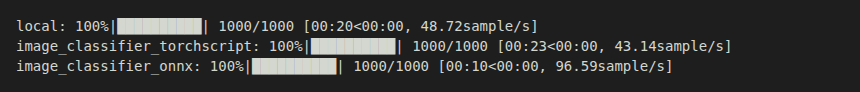
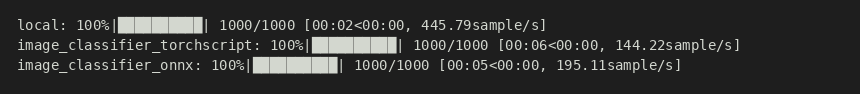
[DOCS] Capture README/run_inference_output.png again on the idle GPU with the default run of run_inference.py, the 35-class README classifier exported with TensorRT FP32 by export_model.py: 445.79 samples per second in the process, 144.22 through Triton as TorchScript and 195.11 as ONNX with TensorR
Claude-Session: https://claude.ai/code/session_016uCt2VnUHiMVPwv8A7SxdZ

diff --git a/documentation/architecture_benchmarking/serving_benchmark_plan.md b/documentation/architecture_benchmarking/serving_benchmark_plan.md
@@ -248,7 +248,6 @@ In case you pick up the work this benchmark left open, these entries are still t
   - Dynamic batching off for the three models, with two instances for CLS and M2M (CLS 1,747 against 1,168 images per second at 16 requests in flight, twice the throughput at one client; DET 166 against 153 without it since the NMS fix).
   - The TensorRT engine cache mounted by `docker-compose.yml`, or native engines built at export with optimization profiles of the batch sizes, the only route to BF16 since the ONNX Runtime backend of Triton 26.01 refuses it.
   - Inputs smaller than float32 tensors over gRPC (uint8 images normalized in the model), a batch of 16 large images being bound by the request.
-- **Capture `README/run_inference_output.png` again** on the idle GPU (the figure of [Triton Server](../../README.md#triton-server) was measured while three trainings shared the GPU).
 
 ## Status
 In order to follow the benchmark, this section keeps its steps.
@@ -262,3 +261,4 @@ In order to follow the benchmark, this section keeps its steps.
 - 2026-11-17, 18:10 to 19:10: the exported NMS of the detectors without offsets (`suppress_stacked_groups`) and DIoU-NMS on boxes in fractions of the image; run_9 exported again (test metric of TensorRT FP16 and FP32, speed at batch 1 and 16, batching on and off) and a DIoU copy of run_9 checked on 200 test images.
 - 2026-11-18: the ONNX export restores the output frames of the sequence labeller and frame selector itself (`restore_dynamic_output_frames`) and checks them, the repair of the drivers removed.
 - 2026-11-18, about 14:25 to 14:45: the ONNX Runtime CUDA row of DET measured again with the NMS without offsets (speed at batch 1 and 16, test metric), and the M2M and frame selector networks exported again and served by Triton without repair.
+- 2026-11-22: `README/run_inference_output.png` captured again on the idle GPU with the default run of `run_inference.py`, the 35-class README classifier exported with TensorRT FP32 (445.79 samples per second in the process, 144.22 through Triton as TorchScript and 195.11 as ONNX with TensorRT, one client sending one image per request).

diff --git a/README.md b/README.md
@@ -1357,7 +1357,7 @@ docker compose up
 <p align="center">
   <img src="README/run_inference_output.png" width="100%" />
 </p>
-<p align="center"><em>The 9-class README classifier (512 pixels) exported with TensorRT FP32, measured on 2026-10-23 while three trainings shared the GPU (item 28 of <code>documentation/suggestions.md</code>): lower than the model gives alone, to measure again on an idle GPU.</em></p>
+<p align="center"><em>The default run of <code>run_inference.py</code>, the 35-class README classifier (512 pixels) exported with TensorRT FP32, measured on 2026-11-22 on the idle GPU: one image per request, so Triton pays a gRPC request for every image the process sends straight to the model.</em></p>
 
 ### Serving Formats And Precision
 Before a model goes to production, its serving path and its number format decide its latency, its throughput, its memory and how far its outputs move from the FP32 model that was evaluated. This part states what the repository exports today, what Triton, TensorRT and the [reduced precisions](#number-formats) add and cost on the DGX Spark of the measurements (GB10 GPU; the Triton image `26.01-py3` ships Triton 2.65.0, CUDA 13.1.1 and TensorRT 10.14.1, [release notes](https://docs.nvidia.com/deeplearning/triton-inference-server/archives/triton-inference-server-2670/release-notes/rel-26-01.html)), and what the [serving benchmark](documentation/architecture_benchmarking/serving_benchmark_plan.md) of 2026-11-17 measured on the idle GPU.

diff --git a/documentation/suggestions.md b/documentation/suggestions.md
@@ -389,12 +389,6 @@ synthetic configurations in `experiments/readme_screenshots/` (MLflow database `
 kept with their colours). The helpers that made them, kept uncommitted in `experiments/readme_screenshots/helpers/`,
 were deleted on 2026-11-22 with the rest of `experiments/`: an image taken again needs its capture written again.
 
-28. **Throughput of the inference on an idle GPU** (`README/run_inference_output.png`): it was measured while three
-    other trainings shared the GPU (48.72 samples per second locally, 43.14 through Triton as TorchScript and 96.59 as
-    ONNX with TensorRT), so it is lower than what the model gives alone. To take again once the GPU is free: export the
-    classification run into `vision_training/deployment/triton/served_models` with `helpers/export_and_measure.py
-    --step=export`, start Triton from that folder (`docker compose up -d`), run the same helper with `--step=measure`,
-    keep the final line of every progress bar and render them with `helpers/render_console_capture.py`.
 29. **Sequence labelling that learns** (`README/sequence_labelling_sample.png`): the sample is `test_000001` of the
     sequence labelling tutorial run of 2026-11-15 (pretrained backbone, bidirectional LSTM 2x96, flatten, balanced class
     weights, 2000 iterations: accuracy 77.16 %, balanced accuracy 72.17 % on the 10,000 test sequences of that day),
